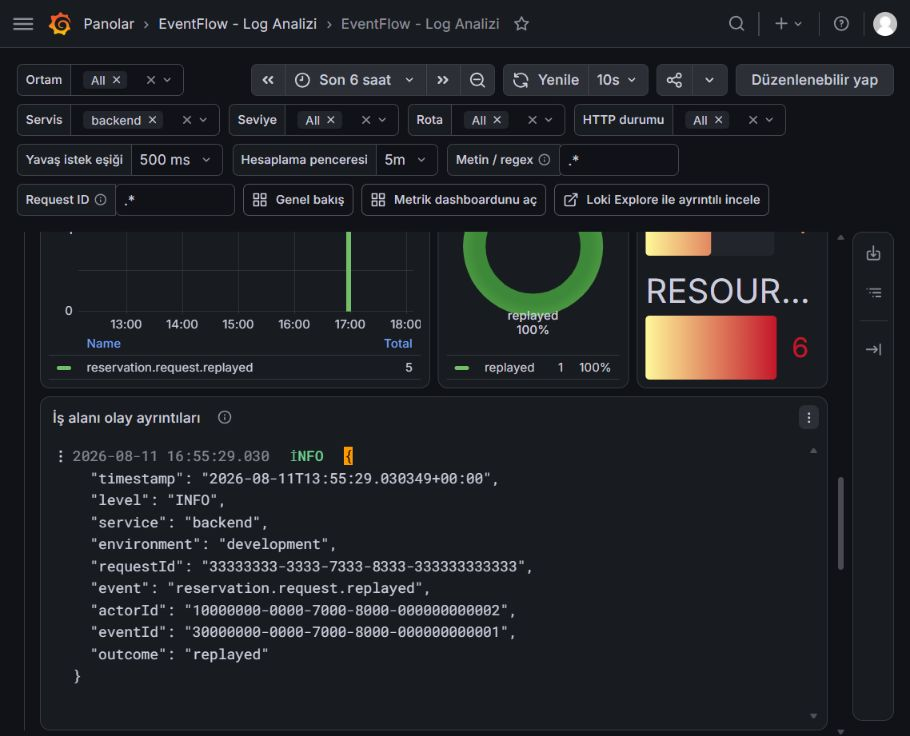
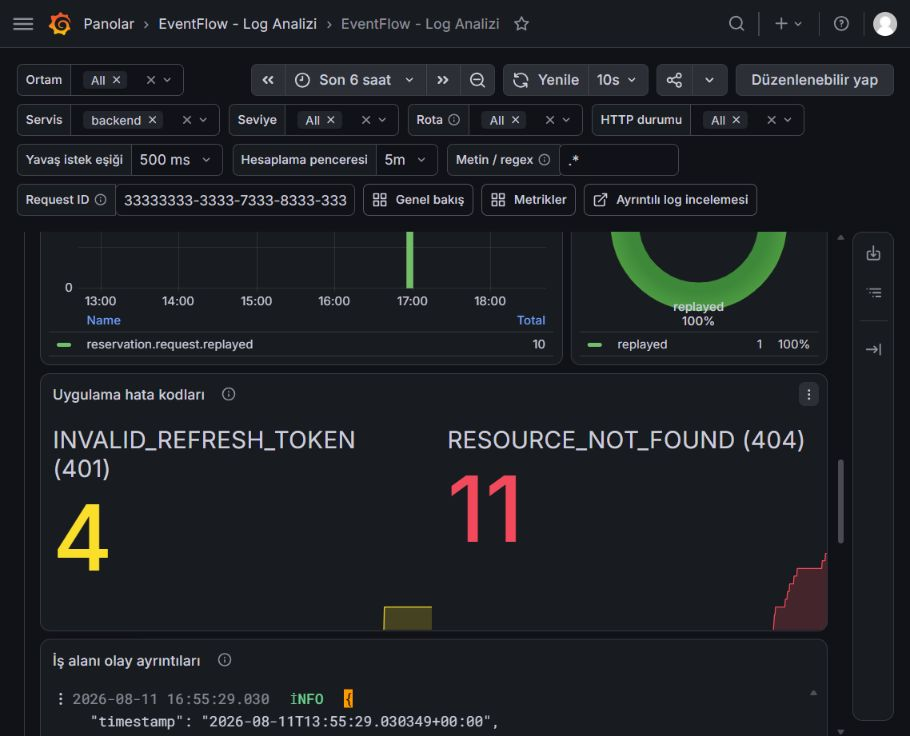
fix(grafana): simplify route and error analysis

diff --git a/backend/tests/unit/test_grafana_dashboards.py b/backend/tests/unit/test_grafana_dashboards.py
@@ -7,12 +7,27 @@ REPOSITORY_ROOT = Path(__file__).parents[3]
 LOG_DASHBOARD_PATH = (
     REPOSITORY_ROOT / "observability" / "grafana" / "dashboards" / "logs" / "eventflow-logs.json"
 )
+METRIC_DASHBOARD_PATH = (
+    REPOSITORY_ROOT
+    / "observability"
+    / "grafana"
+    / "dashboards"
+    / "metrics"
+    / "eventflow-metrics.json"
+)
 
 
 def _load_log_dashboard() -> dict[str, Any]:
     return cast(
         dict[str, Any],
         json.loads(LOG_DASHBOARD_PATH.read_text(encoding="utf-8")),
+    )
+
+
+def _load_metric_dashboard() -> dict[str, Any]:
+    return cast(
+        dict[str, Any],
+        json.loads(METRIC_DASHBOARD_PATH.read_text(encoding="utf-8")),
     )
 
 
@@ -59,10 +74,11 @@ def test_log_dashboard_queries_keep_high_cardinality_fields_out_of_selectors() -
         target["expr"] for panel in dashboard["panels"] for target in panel.get("targets", [])
     ]
 
-    assert len(expressions) == 17
+    assert len(expressions) == 19
     assert any('requestId=~"$request_id"' in expression for expression in expressions)
     assert any("durationMs >= $slow_ms" in expression for expression in expressions)
     assert any("errorCode" in expression for expression in expressions)
+    assert sum('route="unmatched"' in expression for expression in expressions) == 2
     for expression in expressions:
         for selector in re.findall(r"\{([^{}]+)\}", expression):
             assert "requestId" not in selector
@@ -89,3 +105,40 @@ def test_log_dashboard_exposes_actionable_filters() -> None:
     assert variables["request_id"]["type"] == "textbox"
     assert variables["search"]["type"] == "textbox"
     assert variables["slow_ms"]["current"]["value"] == "500"
+    assert "eşleşmeyen 404" in variables["route"]["description"]
+
+
+def test_log_dashboard_keeps_error_codes_readable() -> None:
+    dashboard = _load_log_dashboard()
+    panels = {panel["id"]: panel for panel in dashboard["panels"]}
+    error_panel = panels[13]
+
+    assert error_panel["type"] == "stat"
+    assert error_panel["gridPos"]["w"] == 24
+    assert error_panel["options"]["textMode"] == "value_and_name"
+    assert error_panel["fieldConfig"]["defaults"]["thresholds"]["steps"] == [
+        {"color": "yellow", "value": None},
+        {"color": "red", "value": 5},
+    ]
+
+
+def test_log_dashboard_uses_a_calm_summary_hierarchy() -> None:
+    dashboard = _load_log_dashboard()
+    panels = {panel["id"]: panel for panel in dashboard["panels"]}
+
+    assert all(panels[panel_id]["options"]["colorMode"] == "value" for panel_id in range(1, 6))
+    assert [link["title"] for link in dashboard["links"]] == [
+        "Genel bakış",
+        "Metrikler",
+        "Ayrıntılı log incelemesi",
+    ]
+
+
+def test_metric_dashboard_names_unmatched_routes_for_operators() -> None:
+    dashboard = _load_metric_dashboard()
+    targets = [target for panel in dashboard["panels"] for target in panel.get("targets", [])]
+    variables = {item["name"]: item for item in dashboard["templating"]["list"]}
+
+    assert len(targets) == 15
+    assert any(target.get("legendFormat") == "Eşleşmeyen rota (404)" for target in targets)
+    assert "eşleşmeyen 404" in variables["route"]["description"]

diff --git a/docs/P2_ACCEPTANCE_MATRIX.md b/docs/P2_ACCEPTANCE_MATRIX.md
@@ -65,7 +65,7 @@ Kapsam: PR 6 içindeki tek P2 teslimi olan Prometheus metrics endpoint'i ve onu 
 | Ana ekran | UID `eventflow-overview`, 3 panel | Yeşil |
 | Metrik dashboard | UID `eventflow-metrics`, 12 panel | Yeşil |
 | Log dashboard | UID `eventflow-logs`, 4 bölüm ve 17 analiz paneli | Yeşil |
-| Dashboard sorguları | Genel bakış, metrik ve log ekranlarında toplam 33 PromQL/LogQL target; 17 log targetı gerçek Loki üzerinde ayrıca yürütüldü | Yeşil |
+| Dashboard sorguları | Genel bakış, metrik ve log ekranlarında toplam 36 PromQL/LogQL target; 19 log targetı gerçek Loki, 15 metrik targetı gerçek Prometheus üzerinde yürütüldü | Yeşil |
 | Pinned eklentiler | Loki Explore `2.5.0`, Metrics Drilldown `2.4.0` | Yeşil |
 | Dil ve sunum | Türkçe başlık/açıklama, doğru units/legend/threshold, yanıltıcı sıfır yok | Yeşil |
 
@@ -81,7 +81,9 @@ Ekran kanıtları:
 Log analizi geliştirme doğrulaması:
 
 - operasyon özeti, HTTP, iş alanı ve request ID incelemesi için 4 bölüm ve 17 panel provision edildi
-- 17 LogQL targetın tamamı Grafana datasource API üzerinden gerçek Loki'ye karşı hatasız çalıştı
+- 19 LogQL targetın tamamı Grafana datasource API üzerinden gerçek Loki'ye karşı hatasız çalıştı
+- 15 PromQL targetın tamamı Grafana datasource API üzerinden gerçek Prometheus'a karşı hatasız çalıştı
+- eşleşmeyen 404 istekleri düşük cardinality `unmatched` etiketi korunarak grafiklerde `Eşleşmeyen rota (404)` adıyla gösterildi
 - yeni `http.request.rejected` ve `RESOURCE_NOT_FOUND` kaydı backend, Alloy ve Loki zincirinde bulundu
 - query selectorları request ID, actor ID, event ID veya reservation ID içermiyor
 

diff --git a/OPERATIONS.md b/OPERATIONS.md
@@ -81,7 +81,7 @@ docker compose logs backend --no-color | Select-String 'REQUEST_ID'
 Grafana araması:
 
 1. <http://localhost:3000> adresinde `.env` içindeki admin bilgileriyle giriş yapın.
-2. `Log dashboardunu aç` bağlantısını seçin.
+2. `Log analizi` bağlantısını seçin.
 3. `Ortam`, `Servis`, `Seviye`, `Rota` ve `HTTP durumu` filtreleriyle inceleme kapsamını daraltın.
 4. Performans sorunu için `Yavaş istek eşiği` değerini seçip `Yavaş istekler` ve `Rota bazında p95 istek süresi` panellerini karşılaştırın.
 5. Uygulama davranışı için `İşlem sonuçları`, `Uygulama hata kodları` ve `İş alanı olay ayrıntıları` panellerini kullanın.
@@ -89,6 +89,8 @@ Grafana araması:
 7. `Request ID uçtan uca zaman çizelgesi` panelinde başlangıç, iş alanı sonucu, rejection ve completion kayıtlarını kronolojik inceleyin.
 
 Dashboard dört bölüme ve 17 analiz paneline ayrılır. Serbest arama için `Metin / regex` alanı kullanılabilir. Request ID, actor, event ve reservation kimlikleri JSON alanı olarak sorgulanır; Loki index label değildir.
+
+Rota filtresindeki `unmatched`, kayıtlı bir rota şablonuyla eşleşmeyen istekleri belirtir. Bunlar çoğunlukla yanlış veya artık kullanılmayan adreslere gelen 404 istekleridir. Ham URL ve UUID değerlerinin yüksek cardinality oluşturmasını önlemek için teknik etiket tek grupta tutulur; rota grafiklerinde `Eşleşmeyen rota (404)` adıyla gösterilir.
 
 Provision edilen dashboardun bütün LogQL sorgularını çalışan Grafana ve Loki üzerinde doğrulamak için:
 

diff --git a/TESTING.md b/TESTING.md
@@ -66,7 +66,7 @@ CI ayrıca şunları doğrular:
 - Bilinen bir `X-Request-ID` backend logundan Loki'ye ulaşır ve LogQL ile bulunur.
 - Loki index label kümesi yalnız `service_name`, `environment`, `level` ve `route` alanlarından oluşur.
 - Grafana datasource health sonuçları `OK`, dashboard UID'leri sabit ve ana ekran `eventflow-overview` olur.
-- Log dashboardundaki 17 LogQL target çalışan Grafana datasource API'si üzerinden Loki'ye karşı hatasız yürütülür; yapılandırılmış `RESOURCE_NOT_FOUND` rejection kaydı uçtan uca bulunur.
+- Log dashboardundaki 19 LogQL target çalışan Grafana datasource API'si üzerinden Loki'ye karşı hatasız yürütülür; yapılandırılmış `RESOURCE_NOT_FOUND` rejection kaydı uçtan uca bulunur.
 - Gözlemlenebilirlik containerları root olmayan kullanıcıyla çalışır.
 
 Örnek PromQL:
